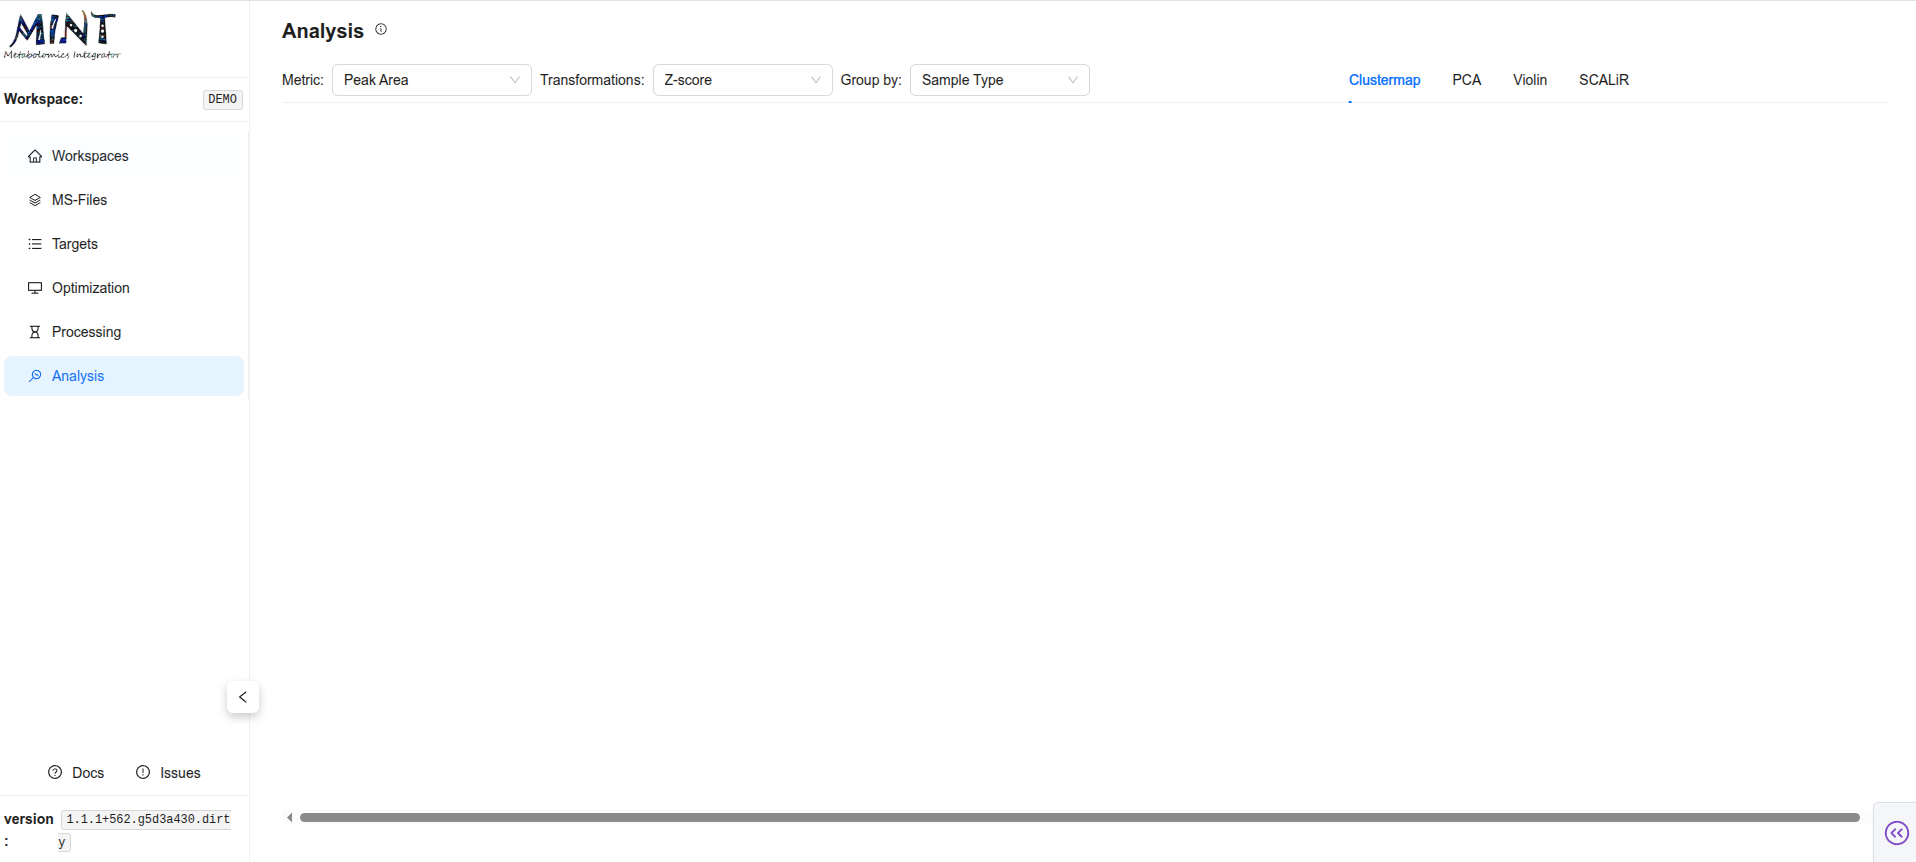
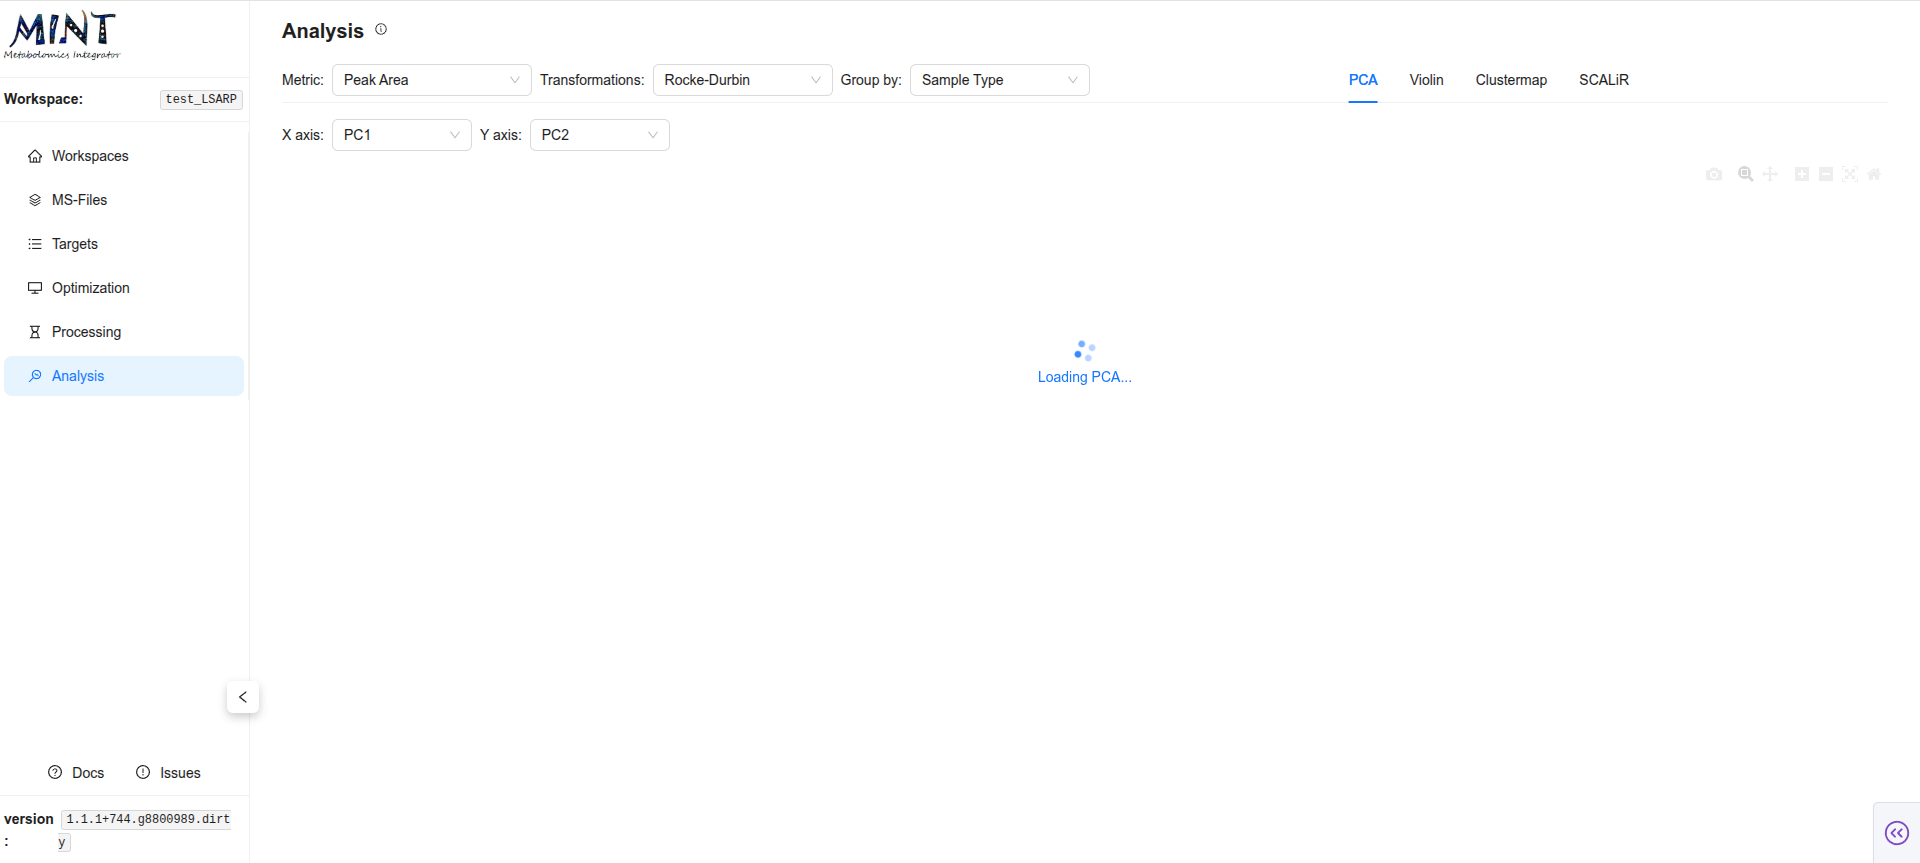
docs: Reorder quickstart analysis sections, clarify PCA description, and update analysis image.

diff --git a/docs/quickstart.md b/docs/quickstart.md
@@ -163,14 +163,8 @@ Once the results are generated, there are several analyses you can perform. In t
 
 ![](quickstart/analysis-1.png)
 
-
-=== "Clustermap"
-    Clustered heatmap showing relationships between samples and targets. In this tab you can select different metrics (for example, peak_area, peak_top3), transformations (for example, z-score, log2), and groupings (for example, Sample type, Group 1, Group 2).
-
-    ![](quickstart/analysis-2.png)
-
 === "PCA"
-    Principal component analysis plot for sample-level patterns. Includes a score plot (PC1 to PC5) on the left side, cumulative variance (top right), and absolute loading values for a selected PC (bottom right).
+    Principal component analysis plot for sample-level patterns. Includes a score plot (PC1 to PC5) on the left side, cumulative variance (top right), and absolute loading values for a selected PC on the x-axis (bottom right).
 
     ![](quickstart/analysis-3.png)
 
@@ -179,6 +173,11 @@ Once the results are generated, there are several analyses you can perform. In t
     Distribution plots by group (for example, Sample type, Group 1, Group 2) to compare target values. Includes a hypothesis test result (t-test for two samples, ANOVA for more than two samples) on the top right corner.
 
     ![](quickstart/analysis-4.png)
+
+=== "Clustermap"
+    Clustered heatmap showing relationships between samples and targets. In this tab you can select different metrics (for example, peak_area, peak_top3), transformations (for example, z-score, log2), and groupings (for example, Sample type, Group 1, Group 2).
+
+    ![](quickstart/analysis-2.png)
 
 === "Scalir"
     Summary view for calculating concentrations.
